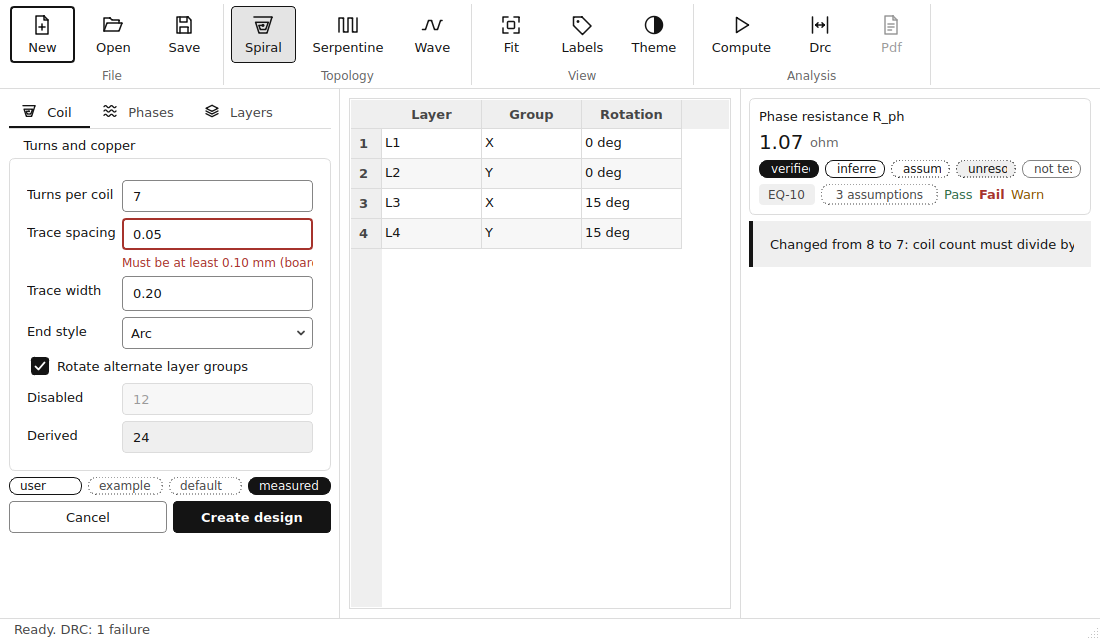
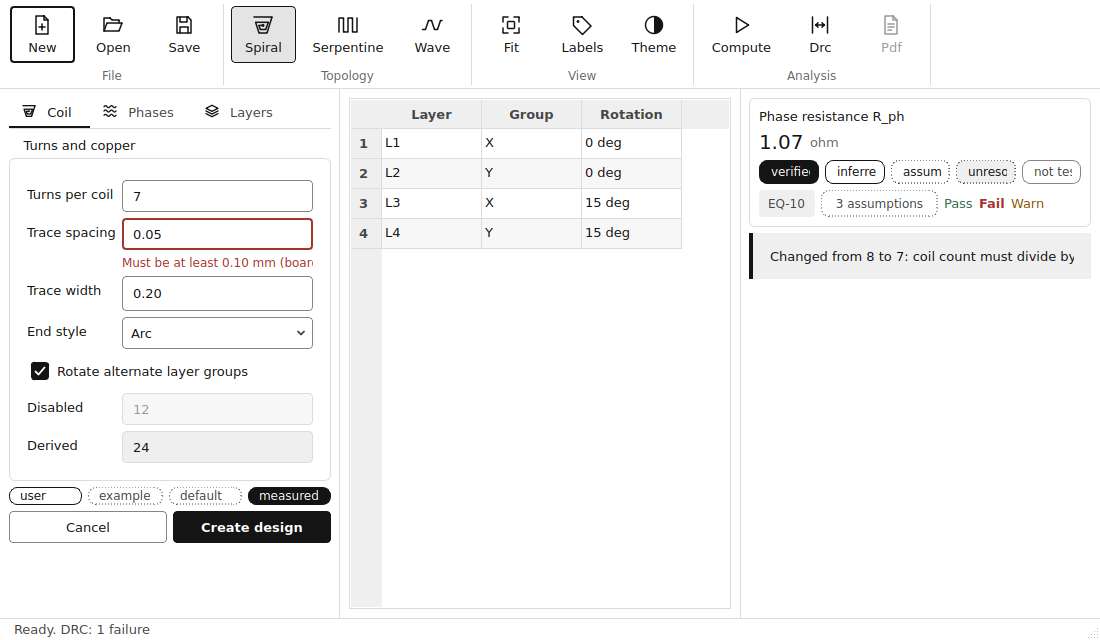
docs(design): U-S4h final check of the acceptance set, rulings m and n
m4_review_2.md section 8 records which section 7 findings closed, four new
findings, the 35 rows fit to show and five change requests. Ruling m dims
stale cards by token (text-3, border-control) instead of 0.6 opacity, which
measured 2.44:1 light and 3.34:1 dark; ruling n keeps the user's tab when
the window enters compact height. design_spec.md 3.1, 5 and 8 and UX-AC-15
and UX-AC-21 follow. screens.md 10 declares compare-scroll so
screens_coverage passes again.

Claude-Session: https://claude.ai/code/session_01PdxuwFsNhRRoLCq8bz1jwt

Changed region(s): [[0.0, 0.5625, 0.3091, 0.875], [0.68, 0.25, 0.9891, 0.3438], [0.68, 0.375, 0.9891, 0.4062]]

diff --git a/docs/phase2/design/m4_review_2.md b/docs/phase2/design/m4_review_2.md
@@ -1,4 +1,4 @@
-Prepared by: Agent 1 (UX/UI Expert Designer) - model: claude-opus-5-5; sections 4 and 5: claude-sonnet-5-5 (U-S4f); section 7: claude-opus-5-5 (U-S4g)
+Prepared by: Agent 1 (UX/UI Expert Designer) - model: claude-opus-5-5; sections 4 and 5: claude-sonnet-5-5 (U-S4f); section 7: claude-opus-5-5 (U-S4g); section 8: claude-opus-5-5 (U-S4h)
 
 # Second M4 design review and rulings (U-S4e)
 
@@ -281,3 +281,97 @@ focus state needs a ring that differs from its fill without a new colour, such a
 `focus-ring` border (`background-clip: padding`). Verify with `qss_smoke.py` and a grab of S12 before merging (S12, S29,
 WCAG 2.4.7). Proposals for M5, no spec change yet: typeset formulas in the Guide and the How section; label assumption
 keys instead of JSON pointers; drop "Default" and "2 turns" from the example notes.
+
+## 8. Final check (revision 2026-10-12 (U-S4h))
+
+Reviewed on main 1d2cee9: the 82 files in `/mnt/user-data/outputs/m4accept/`, captured on unit/U-M4e-3c head 207fd47
+(40 rows; S33 is M5 by D-042a). Method and severities as section 7. U-M4e-4 recaptures S13, S14, S20 and S21
+(DEF-M4e3c-01 provenance chip, "Copper layers" twice in the missing list), so those rows are `pending`. I opened one
+shot per row, both themes for S09 and S22. Not reopened this pass: S03, S04, S06, S15, and the second theme of S12,
+S29, S32 and S39; their section 7 result stands, `not tested` here.
+
+### 8.1 Section 7 findings
+
+| Row | Section 7 | Now | Evidence |
+|---|---|---|---|
+| S05 | major | closed | Dark shot: grey ladder, hatched legend swatches. |
+| S09 | major | closed | Tooltip "Theme. Switch the colour theme: light, dark, then follow the system." in both themes. |
+| S12 | moderate | closed | Light: ring, 2 px gap, then the fill on Create design. |
+| S13, S14, S20, S21 | moderate | pending | U-M4e-4. |
+| S17 | minor | closed | `pair-list` in view: pair 1, L1 and L2, rotation 0 with `example` chip. |
+| S18 | moderate | closed | Combo list open with "4 (2 in parallel)". Minor: the list shows three and a half items. |
+| S19 | moderate | closed | The `issues-list` message wraps on two lines; no sideways bar. New finding N4. |
+| S22 | critical | closed | 960 x 540, both themes: Assumptions, Limitations and Validation state print once each, no line over another. |
+| S23 | major | closed | Value, unit and badge dimmed; banner "1 field is invalid"; no required-field bar. Contrast: ruling m. |
+| S25 | minor | closed | Measured "0.200000", Required "3.000000". |
+| S26 | minor | accepted | Data table below the fold; the tab scrolls. No change. |
+| S27 | major | closed | 24 V `user` chip; torque curve drawn, `unresolved` badge with "estimate". |
+| S28 | major | partly closed | Table takes its rows, no sideways bar, no "iant". New findings N1 and N2. The chart below is out of the shot (`not tested`). |
+| S29 | moderate | closed | Browse is a bordered button; Export shows ring, gap, fill. |
+| S30 | minor | partly closed | Lines print the message, not the code. New finding N3. |
+| S31 | minor | open | "Before you export" still cut after three lines, with about 50 px empty below the list. |
+| S32 | moderate | closed | No `None` rows; one "Dominant assumptions" row with both entries. ASCII formulas stay an M5 proposal. |
+| S39 | minor | open | Notes still say "Default ... preset" and "2 turns" (M5 proposal, not routed). |
+| S01, S03, S10, S24, S34 | minor notes | accepted | Unchanged and acceptable: a toolbar takes no ring, the S10 path is the lever's sandbox, `drc-summary` is a label, `st-cursor` is empty without a pointer. |
+
+New findings:
+
+- N1 (S28, moderate). The first Quantity cell reads "Phase back-EMF constant," and the rest is cut: the row is two
+  lines tall and the text needs three. Quantity is about 100 px wide while Delta takes about 140 px; section 7.3
+  request 3 asked Quantity to stretch.
+- N2 (S28, moderate). The Unit column prints "V·s/rad" beside cells that print "26.4 mV·s/rad". Two units for one
+  number. Every numeric cell already carries its unit (U-M4e-3a), so the Unit column only adds the contradiction.
+- N3 (S30, moderate). Export-confirmation lines run off the right edge behind a sideways bar; "3.000000 mm required" is
+  cut. The same defect `issues-list` had in S19.
+- N4 (S19, minor, `inferred`). The rail shows "1 input issue" in `status-fail` with the fail glyph for advice the user
+  cannot fix ("One board per phase: make the star connection between boards externally."). If that issue is a note,
+  it should not count as a failing input.
+
+### 8.2 Rows fit to show the user now
+
+35 of 40: S01 to S12, S15 to S19, S22 to S27, S29 to S32, S34 to S41, with the minor notes above. Hold S28 until N1
+and N2 are fixed: the table is the row's point and its first label is cut. Pending: S13, S14, S20, S21. The wave
+example still opens with 186 DRC failures (D-034, Fable tells the user).
+
+### 8.3 Rulings
+
+m. Stale dimming (UX-AC-15). Principle experience-first (get the details right): while a field is invalid the user
+reads the last valid values to see what the fix will change, so the dim must not cost legibility. The WCAG 2.2 SC
+1.4.3 exception covers text "part of an inactive user interface component" (`verified`, fetched 2026-10-12 from
+https://www.w3.org/TR/WCAG22/#contrast-minimum). A stale card is content, not a control, and its "How was this
+computed" disclosure stays operable, so the exception does not apply and 4.5:1 does. The current dim is a 0.6
+`QGraphicsOpacityEffect` (`src/embodic/ui/views/results_view.py` line 55) over the `bg-app` card fill. Computed from
+`tokens.json` (`verified`, scratch script, WCAG 2.x luminance): light unit `text-3` x 0.6 gives #a0a0a0 at 2.44:1
+(U-M4e-3a measured 2.41:1); dark unit gives #666666 at 3.34:1, so dark fails too. Ruling: dim by token, never by
+opacity. On a stale card the value, unit, badge word and badge glyph use `text-3` (5.36:1 light, 7.33:1 dark on
+`bg-app`), the badge outline uses `border-control` (3.44:1 and 4.66:1, non-text 3:1), the verified badge drops its
+`surface-inverse` fill, and the card keeps `bg-app`. All four pairs are already rows of appendix A, so `contrast.py`
+guards them; no new colour. The value still steps from 17.2:1 to 5.36:1, a visible dim, and the "Last valid results"
+stamp carries the state in words. The same reason keeps the drawing undimmed: phase colours must hold 3:1 against the
+canvas, and the "Outdated" banner names the state, which is what S23 shows. Changes `design_spec.md` 3.1 and 8,
+UX-AC-15.
+
+n. Compact height (U-M4e-3c open question). Principle experience-first (get the details right): a resize is not a
+request to change what the user reads; a user on Results who snaps the window to half height keeps Results. Today
+`_place_canvas` calls `setCurrentIndex(0)` (`main_window.py` line 811). Ruling: keep the user's tab. Entering compact
+height keeps the current tab of `results-tabs`; Drawing becomes current only when keyboard focus is inside the canvas
+page, because a focused widget on a hidden tab has no visible focus (WCAG 2.4.7). A load still makes Drawing current,
+and Locate still switches to it. Leaving compact height removes Drawing; if it was current, the first remaining tab
+becomes current (the `QTabBar` default). Changes `design_spec.md` 5 (Compact height row) and UX-AC-21.
+
+### 8.4 Change requests
+
+| # | Severity | Request | Target | Row, ruling |
+|---|---|---|---|---|
+| 1 | major | Remove `STALE_OPACITY` and its effect. Add to the template: `QFrame[class="result-card"][stale="true"] QLabel[class="result-value"]`, `...[class="result-unit"]` and the badge glyph `{ color: @text-3; }`; `QFrame[class="result-card"][stale="true"] QLabel[class="badge"] { color: @text-3; border-color: @border-control; }`; the verified badge in a stale card `{ background-color: transparent; }`. Repolish the card's labels after setting `stale`. Test: grab a stale card in both themes, every value, unit and badge text pixel run at least 4.5:1 against the card fill. | `results_view.py`, `tools/design/theme_template.qss` (Agent 3 may edit these lines), `test_ux_ac_15_*` | S23, m |
+| 2 | moderate | Keep the current tab on entering compact height; Drawing only when `canvas_page` holds focus. Test: Results current at 1280 x 800, resize to 960 x 540, Results current; focus `fig-canvas`, resize back and down, Drawing current. | `main_window.py` `_place_canvas` | n |
+| 3 | moderate | Compare rows take the height of their wrapped Quantity text; Quantity stretches. Agent 1 recommends dropping the Unit column (each cell prints its unit), which also gives Quantity the width; `screens.md` `compare-table` row changes with it on Fable's go. | `compare-table`, `screens.md` | S28, N1, N2 |
+| 4 | moderate | The export-confirmation list wraps its lines; no sideways bar. M5 proposal: group identical failures with a count. | export confirmation | S30, N3 |
+| 5 | minor | Check the severity of the serpentine "one board per phase" issue; if it is a note, the rail does not count it as a failing input. | Inputs card | S19, N4 |
+
+### 8.5 Checks
+
+Run in the worktree on unit/U-S4h with `QT_QPA_PLATFORM=offscreen`: `screens_coverage.py`, `check_checklist.py`,
+`qss_smoke.py`, `contrast.py`, all exit 0 (output in the U-S4h report). `screens_coverage.py` first failed on main's
+code ("UI code sets an objectName no screens.md table defines: compare-scroll", added by U-M4e-3c df53bc8);
+`screens.md` 10 now declares it.

diff --git a/docs/phase2/design/acceptance_criteria.md b/docs/phase2/design/acceptance_criteria.md
@@ -4,7 +4,8 @@ Prepared by: Agent 1 (UX/UI Expert Designer) - model: claude-opus-5-5
 
 Date 2026-10-04, revised 2026-10-08 (U-S4c: UX-AC-16 stack mode, UX-AC-25, UX-AC-26), revised 2026-10-09 (U-S4d:
 UX-AC-03, 05, 11, 21, 27; rulings in `m4_review.md`), revised 2026-10-09 (U-S4e: UX-AC-03, 08, 21, 27; rulings in
-`m4_review_2.md`), revised 2026-10-12 (U-S4g: UX-AC-28 target size; ruling k in `m4_review_2.md` section 7). Replaces the Phase 1 list in `docs/phase1/design/design_handoff_for_agent3.md` section 4. Phone and
+`m4_review_2.md`), revised 2026-10-12 (U-S4g: UX-AC-28 target size; ruling k in `m4_review_2.md` section 7), revised 2026-10-12
+(U-S4h: UX-AC-15 and UX-AC-21; rulings m and n in `m4_review_2.md` section 8). Replaces the Phase 1 list in `docs/phase1/design/design_handoff_for_agent3.md` section 4. Phone and
 KiCad criteria are dropped (D-009, D-010). Each criterion names a test that drives the PySide6 app (offscreen
 `QT_QPA_PLATFORM=offscreen` is acceptable unless the row says Windows). Agent 6 maps them to requirement ids; Agent 4
 writes the independent tests.
@@ -25,13 +26,13 @@ writes the independent tests.
 | UX-AC-12 | No silent value rewrite: when the engine changes a user value, an inline notice "Changed from X to Y: reason" with Undo appears beside the field and is announced; Undo restores X. Re-typing a default value changes no status (D-007). | Scripted clamp case; assert notice text, then Undo; assert badge and assumption count unchanged after re-typing a default. |
 | UX-AC-13 | New-design flow: the app opens on the New design dialog; **Create design** enables once the name is valid and a topology is chosen, and opens the draft in the inspector. Required fields start empty and optional fields show their default with a `default` chip. `new-required-count` shows the number of missing pointers, **Go to first missing field** focuses the first one, and nothing computes until `parse_draft` returns `DesignParameters` (`screens.md` v2, R11). | Start app; assert the button is disabled until name and topology are set. Create a blank design per topology; assert empty required fields, `default` chips, no compute call (spy on the worker). Fill the pointers of `screens.md` section 16 one by one; assert the count falls and compute starts after the last. |
 | UX-AC-14 | Examples load with `example` chips; editing a field turns its chip to `user`; marking measured needs a named source. | Load an example; check chips; edit; check chip; "Mark as measured" without a source is refused. |
-| UX-AC-15 | Required-field and range validation: invalid input sets `invalid=true`, shows the message under the field and in Checks; the last valid geometry and results stay dimmed with "Last valid" stamps. | Enter out-of-range values per field; assert the property, the message text equal to `embodic.errors.MESSAGES` of the issue code (R14), and the stale stamps. |
+| UX-AC-15 | Required-field and range validation: invalid input sets `invalid=true`, shows the message under the field and in Checks; the last valid geometry stays under the "Outdated" banner in its own colours, and the last valid results stay dimmed by token with the "Last valid results" stamp: value, unit and badge text in `text-3`, at least 4.5:1 on the card fill, no opacity effect (U-S4h ruling m). | Enter out-of-range values per field; assert the property, the message text equal to `embodic.errors.MESSAGES` of the issue code (R14), and the stale stamps. Grab a stale card in light and dark; every value, unit and badge text pixel run is at least 4.5:1 against the card fill. |
 | UX-AC-16 | Fields that do not apply to the active topology or option are hidden; a temporarily blocked field is disabled with its reason. | Config matrix: three topologies x end style x rotation mode x outline shape x magnet shape x stack mode; assert visibility per `screens.md`. With one board per phase `param-layer-order` is disabled with its hint; with a single board `param-board-gap` is. |
 | UX-AC-17 | Every input shows its unit and the unit is in the accessible description. | For each `param-*` with a unit, assert `<id>-unit` visible and `accessibleDescription()` contains it. |
 | UX-AC-18 | Export with DRC failures requires a confirmation that lists the failures; focus starts on Cancel. Exported files carry embodic version, engine version and parameter hash. | Scripted export; assert dialog, focus, file headers. |
 | UX-AC-19 | Charts: one unit per y axis; legend and direct labels for two or more series; data table available; crosshair reachable by keyboard. | Chart audit per `chart-*`. |
 | UX-AC-20 | Counts show as integers; compare deltas use sign plus glyph, never red or green. | Formatting test on `compare-table`. |
-| UX-AC-21 | Window minimum 960 x 540 px; two panes from 960 px, three panes from 1280 px; no clipped toolstrip button at 960 px (small buttons may collapse to icons with accessible names); no result card, badge, unit or tab label clipped at any size. Vertically (`design_spec.md` 5): the canvas page holds 60 % of the centre height by default and never less than 240 px; under 620 px client height the canvas is the "Drawing" tab. `layer-list`, `pair-list`, `screw-table`, `drc-table` and the result card grid never scroll sideways from 960 px wide. | With the bundled fonts registered: resize to 960 x 540, 1280 x 720, 1280 x 800, 1920 x 1080 on D08 and wave; assert the pane count and widths (300; 340 and 360), every label's height at least its size hint, every toolstrip button visible or in the overflow, canvas height at least 240 px or the Drawing tab present at 960 x 540, and `horizontalScrollBar().maximum() == 0` for the five views. Drag the split, restart, assert the share is restored. |
+| UX-AC-21 | Window minimum 960 x 540 px; two panes from 960 px, three panes from 1280 px; no clipped toolstrip button at 960 px (small buttons may collapse to icons with accessible names); no result card, badge, unit or tab label clipped at any size. Vertically (`design_spec.md` 5): the canvas page holds 60 % of the centre height by default and never less than 240 px; under 620 px client height the canvas is the "Drawing" tab, and resizing into it keeps the user's current tab unless focus is in the canvas page (U-S4h ruling n). `layer-list`, `pair-list`, `screw-table`, `drc-table` and the result card grid never scroll sideways from 960 px wide. | With the bundled fonts registered: resize to 960 x 540, 1280 x 720, 1280 x 800, 1920 x 1080 on D08 and wave; assert the pane count and widths (300; 340 and 360), every label's height at least its size hint, every toolstrip button visible or in the overflow, canvas height at least 240 px or the Drawing tab present at 960 x 540, and `horizontalScrollBar().maximum() == 0` for the five views. Drag the split, restart, assert the share is restored. With Results current at 1280 x 800, resize to 960 x 540 and assert Results is current; focus `fig-canvas`, resize to 1280 x 800 and back, assert Drawing is current. |
 | UX-AC-22 | Recompute: results update within 300 ms of the last edit for the default example, or show "Updating" with previous values dimmed. | Timing test (`unresolved` target until the Python engine is measured). |
 | UX-AC-23 | No animation runs by default; current-flow arrows are static. | Inspect timers and `QPropertyAnimation` instances after start. |
 | UX-AC-24 | High-DPI and Windows: the UI renders without clipped text at 100 %, 150 % and 200 % scaling and in Windows high contrast. | Manual check on Windows (`not tested` until Phase 3). |

diff --git a/docs/phase2/design/design_spec.md b/docs/phase2/design/design_spec.md
@@ -3,7 +3,8 @@ Prepared by: Agent 1 (UX/UI Expert Designer) - model: claude-opus-5-5
 # embodic design specification v1 (Phase 2, PySide6 desktop)
 
 Date 2026-10-04, revised 2026-10-09 (U-S4d: sections 3.3, 3.4, 5 and 8 follow the rulings of `m4_review.md`),
-revised 2026-10-09 (U-S4e: sections 3.3, 4 and 5 follow rulings b, e, f and h of `m4_review_2.md`).
+revised 2026-10-09 (U-S4e: sections 3.3, 4 and 5 follow rulings b, e, f and h of `m4_review_2.md`),
+revised 2026-10-12 (U-S4h: sections 3.1, 5 and 8 follow rulings m and n of `m4_review_2.md` section 8).
 Supersedes `docs/phase1/design/design_spec_draft.md` for everything Phase 2 builds. Companion files:
 
 - `screens.md` gives every screen with its widget table and state rules.
@@ -62,11 +63,11 @@ token generator).
 | `board-fill` | `#f7f7f7` | `#202020` | PCB fill in the geometry view |
 | `divider` | `#dcdcdc` | `#2e2e2e` | Decorative separators only, never a control boundary |
 | `grid-line` | `#e6e6e6` | `#2a2a2a` | Chart grid, solid hairline |
-| `border-control` | `#858585` | `#7d7d7d` | Every input, combo, checkbox and button boundary; scrollbar handle |
+| `border-control` | `#858585` | `#7d7d7d` | Every input, combo, checkbox and button boundary; scrollbar handle; badge outline on a stale card |
 | `border-strong`, `focus-ring` | `#141414` | `#f2f2f2` | Focus 2 px, checked tool button, selected tab underline |
 | `text-1` | `#141414` | `#f2f2f2` | Primary text, icons |
 | `text-2` | `#454545` | `#c8c8c8` | Secondary text, tab labels |
-| `text-3` | `#666666` | `#a0a0a0` | Hints, units, captions |
+| `text-3` | `#666666` | `#a0a0a0` | Hints, units, captions; value, unit and badge text of a stale result card (U-S4h ruling m) |
 | `text-disabled` | `#9a9a9a` | `#6e6e6e` | Disabled text and icons (exempt from SC 1.4.3) |
 | `text-inverse` | `#ffffff` | `#141414` | Text on `surface-inverse` |
 | `status-pass` | `#2f6a47` | `#6fb38a` | Pass glyph and word |
@@ -231,7 +232,7 @@ Vertical split of the centre pane (U-S4e ruling b). The canvas is what the user 
 |---|---|
 | Default | `centre-split` gives the canvas page 60 % and `results-tabs` 40 % of the height below the layer toggles. The view sets the sizes explicitly on first show and on each resize until the user drags the handle; the size hint of a results page never moves the split. On main fd190c1 the cards' size hint gives the results 524 of 648 px at 1280 x 800 and leaves the canvas 124 px (`verified`, `layout_probe.py --fonts`). |
 | Minimums | Canvas page 240 px (legend 80 px plus a ring that holds the labels); results panel 180 px (tab bar plus one card row). Neither side collapses (`setCollapsible(False)`). |
-| Compact height | When the window client area is under 620 px tall, both minimums do not fit (toolstrip 125, status bar 24, toggles 40, 240 + 180). The canvas page then becomes the first tab, "Drawing", of `results-tabs`, before "Key results", and `centre-split` holds only the tabs. "Drawing" is the current tab after a load. **Locate** in `tab-drc` switches to it. This is the width rule turned on its side: below 1280 px wide the rail joins the tabs, below 620 px tall the canvas does. At 960 x 540 the Drawing tab gives the canvas about 320 px instead of 112 (`verified` for 112 on main). |
+| Compact height | When the window client area is under 620 px tall, both minimums do not fit (toolstrip 125, status bar 24, toggles 40, 240 + 180). The canvas page then becomes the first tab, "Drawing", of `results-tabs`, before "Key results", and `centre-split` holds only the tabs. "Drawing" is the current tab after a load. **Locate** in `tab-drc` switches to it. Resizing into compact height keeps the current tab of `results-tabs`; Drawing becomes current only when keyboard focus is inside the canvas page, so the focused widget stays visible (U-S4h ruling n). Leaving compact height removes Drawing; if it was current, the first remaining tab becomes current. This is the width rule turned on its side: below 1280 px wide the rail joins the tabs, below 620 px tall the canvas does. At 960 x 540 the Drawing tab gives the canvas about 320 px instead of 112 (`verified` for 112 on main). |
 | Stored position | After a drag, the canvas share (0 to 1) is stored per user as `layout/canvas_share` and restored, clamped to the minimums. Pixels are not stored, because the window size changes. Nothing is stored in compact height. |
 
 Region object names (stable): `toolstrip`, `inspector`, `inspector-tabs`, `fig-canvas`, `results-tabs`,
@@ -350,6 +351,10 @@ Rules:
   and the selector `QFrame[class="result-card"]`. Variant properties: `status` (badge), `provenance` (chip), `state`
   (check text, DRC row), `invalid` (field), `stale` (card). After changing a property call
   `w.style().unpolish(w); w.style().polish(w)`.
+- A stale card dims by token, never by opacity (U-S4h ruling m; stale results are content, so SC 1.4.3 applies): the
+  card keeps `bg-app`, its value, unit, badge word and badge glyph use `text-3`, the badge outline uses
+  `border-control`, and a verified badge drops its `surface-inverse` fill. Repolish the card's labels after setting
+  `stale`. The drawing is not dimmed; the "Outdated" banner names its state, and phase colours keep 3:1.
 
 | Hook | Widget | Purpose |
 |---|---|---|

diff --git a/docs/phase2/design/screens.md b/docs/phase2/design/screens.md
@@ -2,7 +2,7 @@ Prepared by: Agent 1 (UX/UI Expert Designer) - model: claude-opus-5-5; section 1
 
 # embodic screens v2.3 (Phase 2, PySide6)
 
-Date 2026-10-08, revised 2026-10-09 (U-S4f): `ts-section-board` declared in 14a; rulings i and j of
+Date 2026-10-08, revised 2026-10-12 (U-S4h): `compare-scroll` declared in section 10. Revised 2026-10-09 (U-S4f): `ts-section-board` declared in 14a; rulings i and j of
 `m4_review_2.md` section 5 applied to sections 4 and 5 (screw buttons, last table column). Revised 2026-10-09 (U-S4e): rulings a, c, d and g of `m4_review_2.md` applied to sections 4, 5, 6,
 7, 14a and 16 (`pair-list`, the screw fields, the card grid, the DRC columns, 26 declared names, example titles).
 Revised 2026-10-09 (U-S4d): rulings of `m4_review.md` applied to the conventions and sections 1, 2,
@@ -390,6 +390,7 @@ Empty state: "Charts appear after the first compute." Charts never show efficien
 
 | objectName | Qt widget | Rule |
 |---|---|---|
+| `compare-scroll` | QScrollArea | The one vertical scroll of the Compare page: table at the height of its rows, then the charts; no sideways bar (U-M4e-3c, recorded U-S4h) |
 | `btn-set-reference` | QPushButton | "Set current design as reference"; replaces the stored reference after confirmation |
 | `compare-table` | QTableView: quantity, reference, current, delta, unit | Delta as sign plus glyph (▲, ▼); words "better" or "worse" only when Engineering defines the preferred direction. No red or green. Integers without decimals. |
 | `compare-chart` | small multiples, one unit each | Reference dashed grey, current solid ink |
